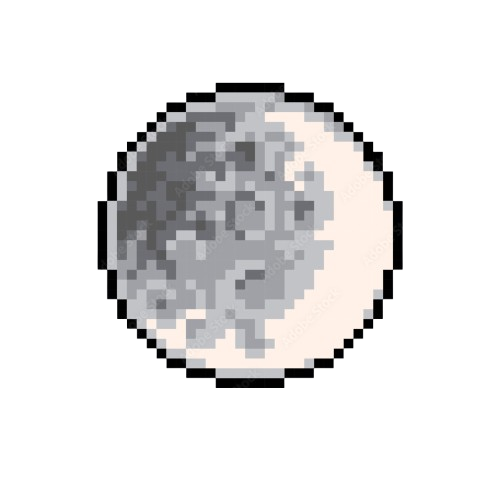
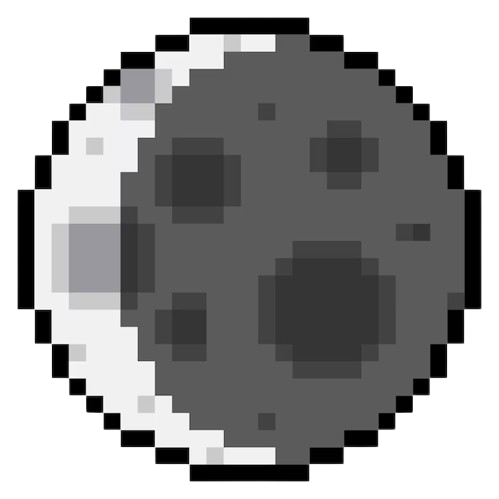
adicionando assests de icones

diff --git a/public/HTML/inicio.html b/public/HTML/inicio.html
@@ -5,19 +5,21 @@
     <meta charset="UTF-8">
     <meta name="viewport" content="width=device-width, initial-scale=1.0">
     <link rel="stylesheet" href="../CSS/inicio.css">
-    <link rel="icon" type="image/png" href="../assets/astronomy.png" />
+    <link rel="icon" type="image/png" href="../assets/pixelstar.png" />
     <title>Inicio</title>
-    <style>
-
-    </style>
 </head>
 
 <body>
+    <div class="banner">
+        <video autoplay muted loop>
+            <source src="../assets/buraco-negro.mp4" type="video/mp4">
+        </video>
+    </div>
     <header id="cabecalho">
         <nav class="nav">
             <div class="div_logo">
                 <a href="#cabecalho">
-                    <img src="../assets/astronomy.png" alt="Logotipo de Astronomia" id="logotipo">
+                    <img src="../assets/pixelstar.png" alt="Logotipo de Astronomia" id="logotipo">
                 </a>
             </div>
             <div class="nav-list1">
@@ -52,14 +54,6 @@
             <p class="subtitulo">Explore fenômenos cósmicos, curiosidades e muito mais sobre o cosmos.</p>
             <a href="sobre.html" class="cta-button">Explore o Universo</a>
         </div>
-    </div>
-
-    <div class="banner">
-        <video autoplay muted loop>
-            <source src="../assets/buraco-negro.mp4" type="video/mp4">
-        </video>
-    </div>
-    <div class="content">
     </div>
 </body>
 

diff --git a/public/CSS/inicio.css b/public/CSS/inicio.css
@@ -1,22 +1,21 @@
-/* Remove margem padrão do body */
 body,
 html {
     margin: 0;
     padding: 0;
+    width: 100%;    
     height: 100%;
     overflow: hidden;
 }
 
 .banner video {
     position: fixed;
-    top: 0;
-    left: 0;
-    min-width: 100%;
-    min-height: 100%;
+    top: 50%;
+    left: 50%;
+    transform: translate(-50%, -50%);
+    width: 100%;
+    height: 100%;
     z-index: -1;
-    /* Garante que o vídeo fique atrás do conteúdo */
-    object-fit: cover;
-    /* Preenche a tela sem distorcer */
+    background-color: black; /* evita mostrar fundo branco nas bordas */
 }
 
 .content {

diff --git a/public/HTML/acesso.html b/public/HTML/acesso.html
@@ -5,7 +5,7 @@
     <meta charset="UTF-8">
     <meta name="viewport" content="width=device-width, initial-scale=1.0">
     <link rel="stylesheet" href="../CSS/acesso.css" />
-    <link rel="icon" type="image/png" href="../assets/astronomy.png" />
+    <link rel="icon" type="image/png" href="../assets/pixelstar.png" />
     <title>Acesso</title>
 </head>
 

diff --git a/public/HTML/game.html b/public/HTML/game.html
@@ -3,6 +3,7 @@
 <head>
     <meta charset="UTF-8">
     <meta name="viewport" content="width=device-width, initial-scale=1.0">
+    <link rel="icon" type="image/png" href="../assets/pixelship.png" />
     <title>Aventura</title>
     
 </head>

diff --git a/public/HTML/lua.html b/public/HTML/lua.html
@@ -7,9 +7,7 @@
     <link rel="stylesheet" href="../CSS/lua.css">
     <link rel="icon" type="image/png" href="../assets/pixelmoon.png" />
     <title>Lua</title>
-    <style>
 
-    </style>
 </head>
 
 <body>
